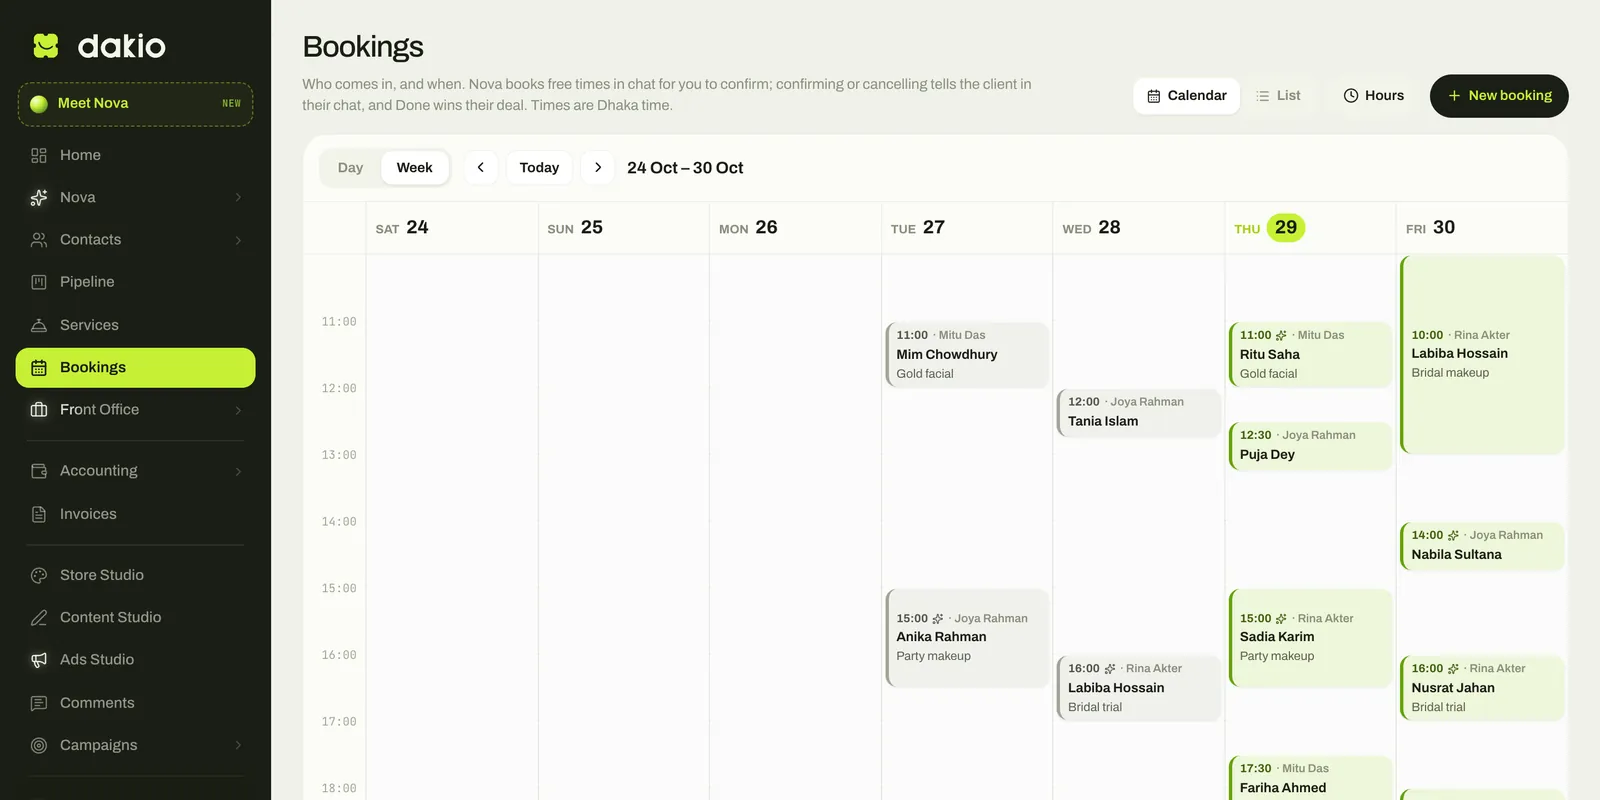
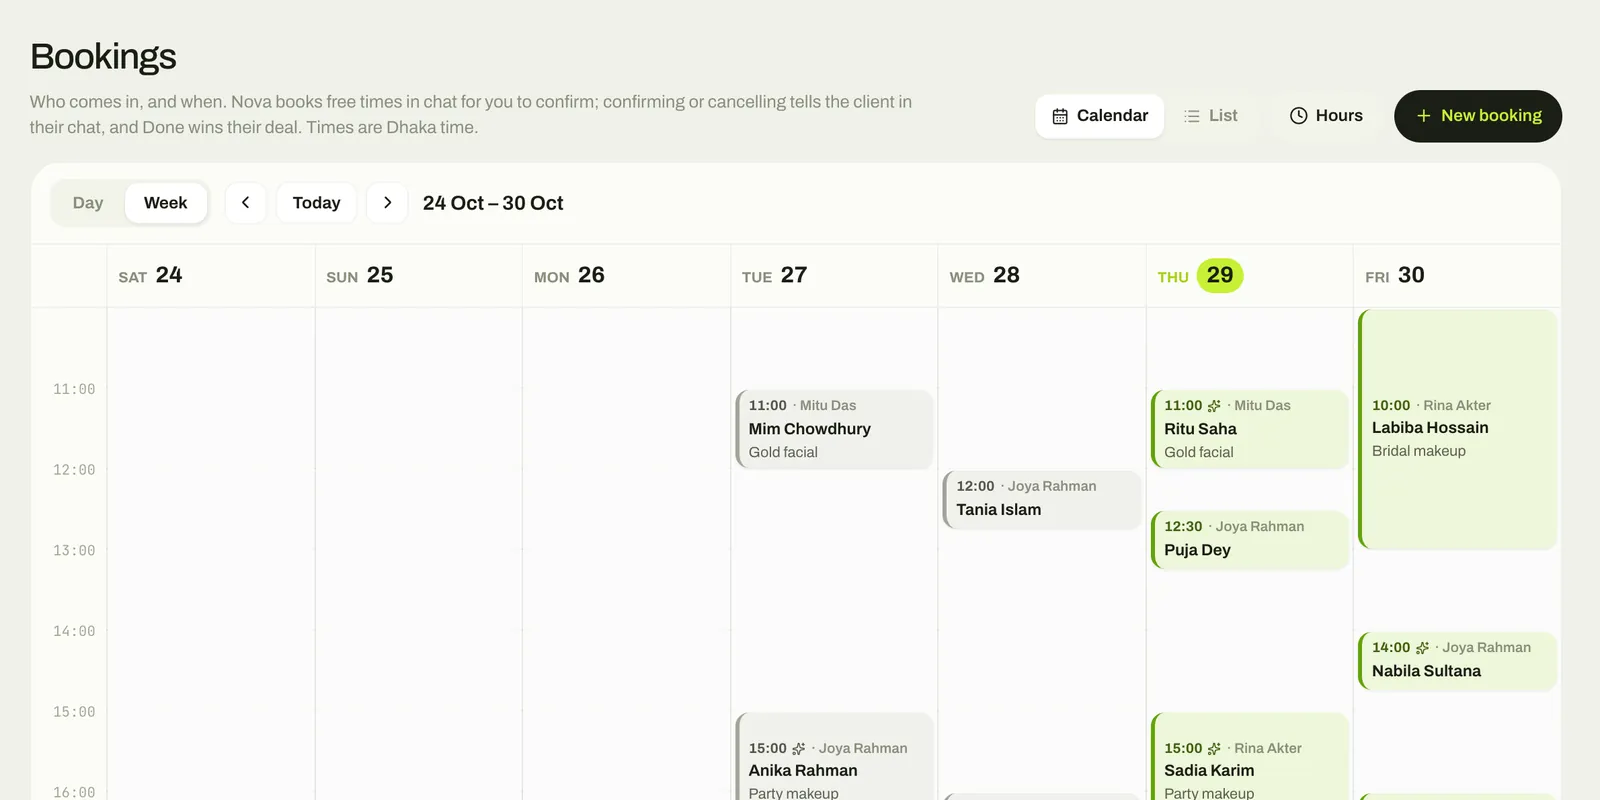
feat(home): Nova at work on each Where Nova works card; app screens without the sidebar
Each card opens with a small preview of what Nova just did there: the
inbox reply and heard voice note, Nusrat's saved details and call-back,
#6BB-VHQ6 shipped with the update sent, Friday's slots with the bridal
trial, a draft post to approve, the weekly money note, and the Saril site
with the Nova bubble. The six real app screenshots are cropped to the
content, without the app's sidebar.

diff --git a/app/home.css b/app/home.css
@@ -287,6 +287,55 @@ html[lang="bn"] .hm-vs-group-t { letter-spacing: normal; text-transform: none; f
 .hm-run-items svg { width: 14px; height: 14px; margin-top: 2px; color: #3E7A45; }
 .hm-plans-svc { margin-top: 14px; }
 
+/* Where Nova works: a small preview of Nova at work on each card (PartPreview) */
+.hm-part-head { display: flex; align-items: center; gap: 12px; margin-top: 6px; }
+.hm-part-head .hm-part-icon { width: 36px; height: 36px; border-radius: 11px; margin: 0; }
+.hm-pv { height: 184px; border-radius: 16px; background: #F0EEE6; padding: 14px; overflow: hidden; display: flex; align-items: center; justify-content: center; font-size: 12px; line-height: 1.4; color: #1A1D12; }
+.hm-pv > * { width: 100%; max-width: 300px; }
+.hm-pv-chat { display: grid; gap: 7px; }
+.hm-pv-them { justify-self: end; max-width: 80%; padding: 7px 11px; border-radius: 14px 14px 4px 14px; background: #0F120B; color: #F4F2EA; }
+.hm-pv-nova { justify-self: start; max-width: 88%; padding: 7px 11px; border-radius: 14px 14px 14px 4px; background: #FFFFFF; border: 1px solid #E3E5DA; }
+.hm-pv-voice { justify-self: end; display: inline-flex; align-items: center; gap: 3px; padding: 6px 10px; border-radius: 99px; background: #E6EFC9; color: #3E7A45; }
+.hm-pv-voice i { width: 3px; border-radius: 2px; background: #3E7A45; }
+.hm-pv-voice i:nth-child(1) { height: 8px; } .hm-pv-voice i:nth-child(2) { height: 14px; } .hm-pv-voice i:nth-child(3) { height: 10px; } .hm-pv-voice i:nth-child(4) { height: 16px; } .hm-pv-voice i:nth-child(5) { height: 9px; } .hm-pv-voice i:nth-child(6) { height: 12px; }
+.hm-pv-voice em { font-style: normal; margin-left: 6px; font-size: 11px; }
+.hm-pv-card { display: grid; gap: 7px; padding: 12px; border-radius: 14px; background: #FFFFFF; border: 1px solid #E3E5DA; box-shadow: 0 8px 20px rgba(26,29,18,0.06); }
+.hm-pv-who { display: flex; align-items: center; gap: 8px; }
+.hm-pv-av { width: 22px; height: 22px; border-radius: 99px; background: #0F120B; color: #C6F035; display: grid; place-items: center; font-size: 11px; font-weight: 800; }
+.hm-pv-tag { margin-left: auto; padding: 2px 8px; border-radius: 99px; background: #E6EFC9; color: #3E7A45; font-size: 10.5px; font-weight: 700; white-space: nowrap; }
+.hm-pv-facts { display: flex; flex-wrap: wrap; gap: 5px; }
+.hm-pv-facts span { padding: 2px 8px; border-radius: 8px; background: #F4F2EA; color: #55584B; font-size: 11px; }
+.hm-pv-task { padding: 6px 9px; border-radius: 9px; border: 1px dashed #CFCBBB; color: #55584B; font-size: 11px; }
+.hm-pv-row { display: flex; align-items: center; gap: 8px; }
+.hm-pv-status { margin-left: auto; padding: 2px 8px; border-radius: 99px; background: #E1EBFB; color: #2F5BB7; font-size: 10.5px; font-weight: 700; }
+.hm-pv-track { display: grid; grid-template-columns: repeat(4, 1fr); gap: 4px; }
+.hm-pv-track i { height: 4px; border-radius: 4px; background: #E2E0D4; }
+.hm-pv-track i.is-on { background: #3E7A45; }
+.hm-pv-card .hm-pv-nova { max-width: 100%; background: #F4F2EA; border: 0; }
+.hm-pv-slot { display: grid; grid-template-columns: 38px minmax(0, 1fr); gap: 8px; padding: 4px 8px; border-radius: 8px; background: #F4F2EA; color: #55584B; font-size: 11px; }
+.hm-pv-slot.is-on { background: #C6F035; color: #0F120B; font-weight: 700; }
+.hm-pv-post { grid-template-columns: 56px minmax(0, 1fr); gap: 10px; align-items: start; }
+.hm-pv-post img { width: 56px; height: 72px; border-radius: 9px; object-fit: cover; object-position: 50% 8%; }
+.hm-pv-post .hm-pv-tag { margin: 0; display: inline-block; }
+.hm-pv-post p { margin: 5px 0 7px; font-size: 11.5px; color: #33372A; }
+.hm-pv-btns { display: flex; gap: 6px; }
+.hm-pv-btns span { padding: 3px 10px; border-radius: 99px; border: 1px solid #DAD8CC; font-size: 10.5px; font-weight: 700; color: #55584B; }
+.hm-pv-btns .is-go { background: #0F120B; border-color: #0F120B; color: #C6F035; }
+.hm-pv-orb { width: 14px; height: 14px; border-radius: 50%; flex-shrink: 0; background: radial-gradient(circle at 32% 28%, #F4FFD6 0%, #C6F035 40%, #6FA524 75%, #2E4710 100%); box-shadow: 0 0 10px rgba(198,240,53,0.5); }
+.hm-pv-line { display: flex; justify-content: space-between; padding: 4px 0; border-top: 1px solid #EEECE2; color: #55584B; }
+.hm-pv-line b { color: #1A1D12; }
+.hm-pv-site { position: relative; height: 144px; border-radius: 12px; background: #FFFFFF; border: 1px solid #E3E5DA; overflow: hidden; box-shadow: 0 8px 20px rgba(26,29,18,0.06); }
+.hm-pv-bar { display: flex; align-items: center; gap: 10px; padding: 8px 10px; border-bottom: 1px solid #EEECE2; font-size: 10.5px; color: #6B6D60; }
+.hm-pv-bar b { margin-right: auto; font-size: 12px; color: #1A1D12; }
+.hm-pv-hero { display: flex; gap: 10px; padding: 10px; }
+.hm-pv-hero img { width: 70px; height: 86px; border-radius: 8px; object-fit: cover; object-position: 50% 8%; }
+.hm-pv-hero div { flex: 1; display: grid; gap: 6px; align-content: start; padding-top: 6px; }
+.hm-pv-hero i { height: 7px; border-radius: 4px; background: #EEECE2; }
+.hm-pv-hero i:first-child { width: 80%; height: 10px; background: #1A1D12; }
+.hm-pv-hero i:last-child { width: 50%; }
+.hm-pv-bubble { position: absolute; right: 8px; bottom: 8px; display: inline-flex; align-items: center; gap: 6px; padding: 5px 10px 5px 6px; border-radius: 99px; background: #0F120B; color: #FBFBF4; font-size: 10.5px; font-weight: 700; }
+.hm[data-aud="both"] .hm-part-website .hm-pv > * { max-width: 520px; }
+
 /* Everything to run it on laptops and tablets (RunWalk.jsx): Nova walks the line */
 .hm-walk { --node: 72px; position: relative; }
 .hm-walk.is-one { max-width: 620px; margin: 0 auto; }
@@ -436,7 +485,7 @@ html[lang="bn"] .hm-cta-h2 { font-size: 46px; }
 html[lang="bn"] .hm-kicker, html[lang="bn"] .hm-badge, html[lang="bn"] .hm-ask-label { font-family: var(--dk-font-bn), sans-serif; letter-spacing: normal; text-transform: none; font-size: 13px; }
 html[lang="bn"] .hm-lead, html[lang="bn"] .hm-body, html[lang="bn"] .hm-lead-dark, html[lang="bn"] .hm-note, html[lang="bn"] .hm-faq summary, html[lang="bn"] .hm-vs-t, html[lang="bn"] .hm-vs-group-t { font-family: var(--dk-font-bn), sans-serif; line-height: 1.75; }
 html[lang="bn"] .hm-msg, html[lang="bn"] .hm-pcard-txt, html[lang="bn"] .hm-rcard-txt, html[lang="bn"] .hm-chips, html[lang="bn"] .hm-shot-cap, html[lang="bn"] .hm-chat-cap, html[lang="bn"] .hm-chatbeat-t, html[lang="bn"] .hm-chatafter-t, html[lang="bn"] .hm-chatafter-list li { font-family: var(--dk-font-bn), sans-serif; line-height: 1.6; }
-html[lang="bn"] .hm-app-card-t, html[lang="bn"] .hm-app-card-d, html[lang="bn"] .hm-app-group, html[lang="bn"] .hm-walk-t, html[lang="bn"] .hm-walk-items li, html[lang="bn"] .hm-walk-nova, html[lang="bn"] .hm-walk-group, html[lang="bn"] .hm-run-nova, html[lang="bn"] .hm-run-t, html[lang="bn"] .hm-run-items li, html[lang="bn"] .hm-run-label { font-family: var(--dk-font-bn), sans-serif; letter-spacing: normal; line-height: 1.6; }
+html[lang="bn"] .hm-app-card-t, html[lang="bn"] .hm-app-card-d, html[lang="bn"] .hm-app-group, html[lang="bn"] .hm-pv, html[lang="bn"] .hm-walk-t, html[lang="bn"] .hm-walk-items li, html[lang="bn"] .hm-walk-nova, html[lang="bn"] .hm-walk-group, html[lang="bn"] .hm-run-nova, html[lang="bn"] .hm-run-t, html[lang="bn"] .hm-run-items li, html[lang="bn"] .hm-run-label { font-family: var(--dk-font-bn), sans-serif; letter-spacing: normal; line-height: 1.6; }
 html[lang="bn"] .hm-mach-cap, html[lang="bn"] .hm-mach-cap b, html[lang="bn"] .hm-mach-steps button, html[lang="bn"] .hm-mach-pin, html[lang="bn"] .hm-mach-pause, html[lang="bn"] .hm-mach-hint, html[lang="bn"] .hm-mach-back { font-family: var(--dk-font-bn), sans-serif; line-height: 1.6; }
 html[lang="bn"] .hm-seg button, html[lang="bn"] .hm-btn { font-family: var(--dk-font-bn), sans-serif; }
 @media (max-width: 980px) {

diff --git a/components/home/HomeSections.jsx b/components/home/HomeSections.jsx
@@ -206,6 +206,63 @@ export function Contrast({ c }) {
   );
 }
 
+/* ---------------- 3 · Where Nova works ---------------- */
+
+// A small preview of Nova at work in each part: plain markup, no images, the
+// same example stores as the rest of the page.
+function PartPreview({ k, v }) {
+  if (!v) return null;
+  let inner = null;
+  if (k === "inbox") inner = (
+    <div className="hm-pv-chat">
+      <span className="hm-pv-them">{v.them}</span>
+      <span className="hm-pv-nova">{v.nova}</span>
+      <span className="hm-pv-voice"><i /><i /><i /><i /><i /><i /><em>{v.voice}</em></span>
+    </div>
+  );
+  if (k === "customers") inner = (
+    <div className="hm-pv-card">
+      <div className="hm-pv-who"><span className="hm-pv-av">{v.name.slice(0, 1)}</span><b>{v.name}</b><span className="hm-pv-tag">{v.saved}</span></div>
+      <div className="hm-pv-facts">{v.facts.map(f => <span key={f}>{f}</span>)}</div>
+      <div className="hm-pv-task">{v.task}</div>
+    </div>
+  );
+  if (k === "orders") inner = (
+    <div className="hm-pv-card">
+      <div className="hm-pv-row"><b>{v.id}</b><span className="hm-pv-status">{v.status}</span></div>
+      <div className="hm-pv-track"><i className="is-on" /><i className="is-on" /><i className="is-on" /><i /></div>
+      <span className="hm-pv-nova">{v.msg}</span>
+    </div>
+  );
+  if (k === "bookings") inner = (
+    <div className="hm-pv-card">
+      <div className="hm-pv-row"><b>{v.day}</b></div>
+      {v.slots.map(([t, w], i) => <div key={t} className={`hm-pv-slot${i === 1 ? " is-on" : ""}`}><b>{t}</b><span>{w}</span></div>)}
+      <div className="hm-pv-task">{v.note}</div>
+    </div>
+  );
+  if (k === "marketing") inner = (
+    <div className="hm-pv-card hm-pv-post">
+      <img src="/demo/saril/peacock-teal-panjabi.jpg" alt="" width={56} height={72} loading="lazy" />
+      <div><span className="hm-pv-tag">{v.tag}</span><p>{v.text}</p><div className="hm-pv-btns"><span className="is-go">{v.approve}</span><span>{v.edit}</span></div></div>
+    </div>
+  );
+  if (k === "money") inner = (
+    <div className="hm-pv-card">
+      <div className="hm-pv-row"><span className="hm-pv-orb" /><b>{v.title}</b></div>
+      {v.lines.map(([a, b]) => <div key={a} className="hm-pv-line"><span>{a}</span><b>{b}</b></div>)}
+    </div>
+  );
+  if (k === "website") inner = (
+    <div className="hm-pv-site">
+      <div className="hm-pv-bar"><b>{v.store}</b>{v.nav.map(n => <span key={n}>{n}</span>)}</div>
+      <div className="hm-pv-hero"><img src="/demo/saril/peacock-teal-panjabi.jpg" alt="" width={90} height={110} loading="lazy" /><div><i /><i /><i /></div></div>
+      <span className="hm-pv-bubble"><span className="hm-pv-orb" />{v.bubble}</span>
+    </div>
+  );
+  return <div className="hm-pv" aria-hidden="true">{inner}</div>;
+}
+
 /* ---------------- 3 · Everything in one place ---------------- */
 
 const PART_ORDER = [
@@ -224,8 +281,8 @@ export function Parts({ c, L }) {
       <div className="hm-parts">
         {PART_ORDER.map(([k, show]) => (
           <div key={k} className={`hm-part hm-part-${k}`} data-show={show || undefined}>
-            <span className="hm-part-icon"><Icon name={k} /></span>
-            <h3 className="hm-h3">{p.cards[k].t}</h3>
+            <PartPreview k={k} v={p.previews[k]} />
+            <div className="hm-part-head"><span className="hm-part-icon"><Icon name={k} /></span><h3 className="hm-h3">{p.cards[k].t}</h3></div>
             <p className="hm-body">{p.cards[k].d}</p>
             {k === "website" ? <Link href={L("/themes")} className="hm-link">{p.link} <Arrow size={13} /></Link> : null}
           </div>

diff --git a/content/copy/home.bn.js b/content/copy/home.bn.js
@@ -143,6 +143,15 @@ const home = {
       website: { t: "ওয়েবসাইট", d: "প্রথম দিন থেকেই সাজানো দোকান বা বুকিংয়ের ওয়েবসাইট, নিজের ডোমেইনে, চ্যাট বাবলে Nova সহ।" },
     },
     link: "ওয়েবসাইটের ডিজাইনগুলো দেখুন",
+    previews: {
+      inbox: { them: "এটা আছে? ৪০ সাইজ?", nova: "জি, আছে! ৳২,৩৫০, ২ দিনে পৌঁছাবে।", voice: "ভয়েস মেসেজ · শুনেছে: ডেলিভারি কত?" },
+      customers: { name: "নুসরাত জাহান", facts: ["বিয়ে ১২ ডিসেম্বর", "উত্তরা", "বাজেট ৳৩৫,০০০"], saved: "Nova সেভ করেছে", task: "কাল ১১টায় কল ব্যাক" },
+      orders: { id: "#6BB-VHQ6", status: "পাঠানো হয়েছে · Steadfast", msg: "Nova: আপনার পার্সেল রওনা দিয়েছে। ট্র্যাকিং লিংক পাঠালাম।" },
+      bookings: { day: "শুক্রবার", slots: [["২:০০", "থ্রেডিং · রূপা"], ["৪:০০", "ব্রাইডাল ট্রায়াল · নুসরাত"], ["৬:০০", "পার্টি মেকআপ · সাদিয়া"]], note: "বৃহস্পতিবার রিমাইন্ডার যাবে" },
+      marketing: { tag: "পোস্টের খসড়া", text: "নতুন এসেছে: পিকক টিল পাঞ্জাবি, ৩৮ থেকে ৪৬। ৳২,৩৫০।", approve: "অনুমোদন", edit: "এডিট" },
+      money: { title: "সাপ্তাহিক টাকার হিসাব", lines: [["এসেছে", "৳৩৮,৫০০"], ["অর্ডার", "২১"], ["কুরিয়ারের কাছে", "৳১২,৪০০"]] },
+      website: { store: "Saril", nav: ["নতুন", "পাঞ্জাবি", "শাড়ি"], bubble: "Nova-কে জিজ্ঞেস করুন" },
+    },
   },
 
   flow: {

diff --git a/content/copy/home.en.js b/content/copy/home.en.js
@@ -155,6 +155,16 @@ const home = {
       website: { t: "Website", d: "A designed shop or booking site from day one, on your own domain, with Nova in the chat bubble." },
     },
     link: "See the website designs",
+    // A small preview of Nova at work in each part (HomeSections.jsx PartPreview).
+    previews: {
+      inbox: { them: "Eta ase? 40 size?", nova: "Ji, ase! ৳2,350, 2 dine pouchabe.", voice: "Voice note · heard: delivery koto?" },
+      customers: { name: "Nusrat Jahan", facts: ["Wedding 12 Dec", "Uttara", "Budget ৳35,000"], saved: "Saved by Nova", task: "Call back tomorrow, 11:00" },
+      orders: { id: "#6BB-VHQ6", status: "Shipped · Steadfast", msg: "Nova: Your parcel is on the way. Tracking link sent." },
+      bookings: { day: "Friday", slots: [["2:00", "Threading · Rupa"], ["4:00", "Bridal trial · Nusrat"], ["6:00", "Party makeup · Sadia"]], note: "Reminder goes out Thursday" },
+      marketing: { tag: "Draft post", text: "New in: Peacock Teal Panjabi, 38 to 46. ৳2,350.", approve: "Approve", edit: "Edit" },
+      money: { title: "Weekly money note", lines: [["Came in", "৳38,500"], ["Orders", "21"], ["Couriers holding", "৳12,400"]] },
+      website: { store: "Saril", nav: ["New in", "Panjabi", "Saree"], bubble: "Ask Nova" },
+    },
   },
 
   flow: {

diff --git a/HOME_COPY.md b/HOME_COPY.md
@@ -450,6 +450,36 @@ _The full business, one card per part, each saying what you get and what Nova do
 - EN: See the website designs
 - BN: ওয়েবসাইটের ডিজাইনগুলো দেখুন
 
+_Each card opens with a small preview of Nova at work in that part (plain markup, the same example stores)._
+
+**Preview · inbox**
+- EN: Eta ase? 40 size? · Ji, ase! ৳2,350, 2 dine pouchabe. · Voice note · heard: delivery koto?
+- BN: এটা আছে? ৪০ সাইজ? · জি, আছে! ৳২,৩৫০, ২ দিনে পৌঁছাবে। · ভয়েস মেসেজ · শুনেছে: ডেলিভারি কত?
+
+**Preview · customers**
+- EN: Nusrat Jahan · Wedding 12 Dec / Uttara / Budget ৳35,000 · Saved by Nova · Call back tomorrow, 11:00
+- BN: নুসরাত জাহান · বিয়ে ১২ ডিসেম্বর / উত্তরা / বাজেট ৳৩৫,০০০ · Nova সেভ করেছে · কাল ১১টায় কল ব্যাক
+
+**Preview · orders**
+- EN: #6BB-VHQ6 · Shipped · Steadfast · Nova: Your parcel is on the way. Tracking link sent.
+- BN: #6BB-VHQ6 · পাঠানো হয়েছে · Steadfast · Nova: আপনার পার্সেল রওনা দিয়েছে। ট্র্যাকিং লিংক পাঠালাম।
+
+**Preview · bookings**
+- EN: Friday · 2:00 Threading · Rupa / 4:00 Bridal trial · Nusrat / 6:00 Party makeup · Sadia · Reminder goes out Thursday
+- BN: শুক্রবার · ২:০০ থ্রেডিং · রূপা / ৪:০০ ব্রাইডাল ট্রায়াল · নুসরাত / ৬:০০ পার্টি মেকআপ · সাদিয়া · বৃহস্পতিবার রিমাইন্ডার যাবে
+
+**Preview · marketing**
+- EN: Draft post · New in: Peacock Teal Panjabi, 38 to 46. ৳2,350. · Approve · Edit
+- BN: পোস্টের খসড়া · নতুন এসেছে: পিকক টিল পাঞ্জাবি, ৩৮ থেকে ৪৬। ৳২,৩৫০। · অনুমোদন · এডিট
+
+**Preview · money**
+- EN: Weekly money note · Came in ৳38,500 / Orders 21 / Couriers holding ৳12,400
+- BN: সাপ্তাহিক টাকার হিসাব · এসেছে ৳৩৮,৫০০ / অর্ডার ২১ / কুরিয়ারের কাছে ৳১২,৪০০
+
+**Preview · website**
+- EN: Saril · New in / Panjabi / Saree · Ask Nova
+- BN: Saril · নতুন / পাঞ্জাবি / শাড়ি · Nova-কে জিজ্ঞেস করুন
+
 ### 4 · After the chat
 
 _The proof that the reply is only the start. Five steps, swapped by the switch._
